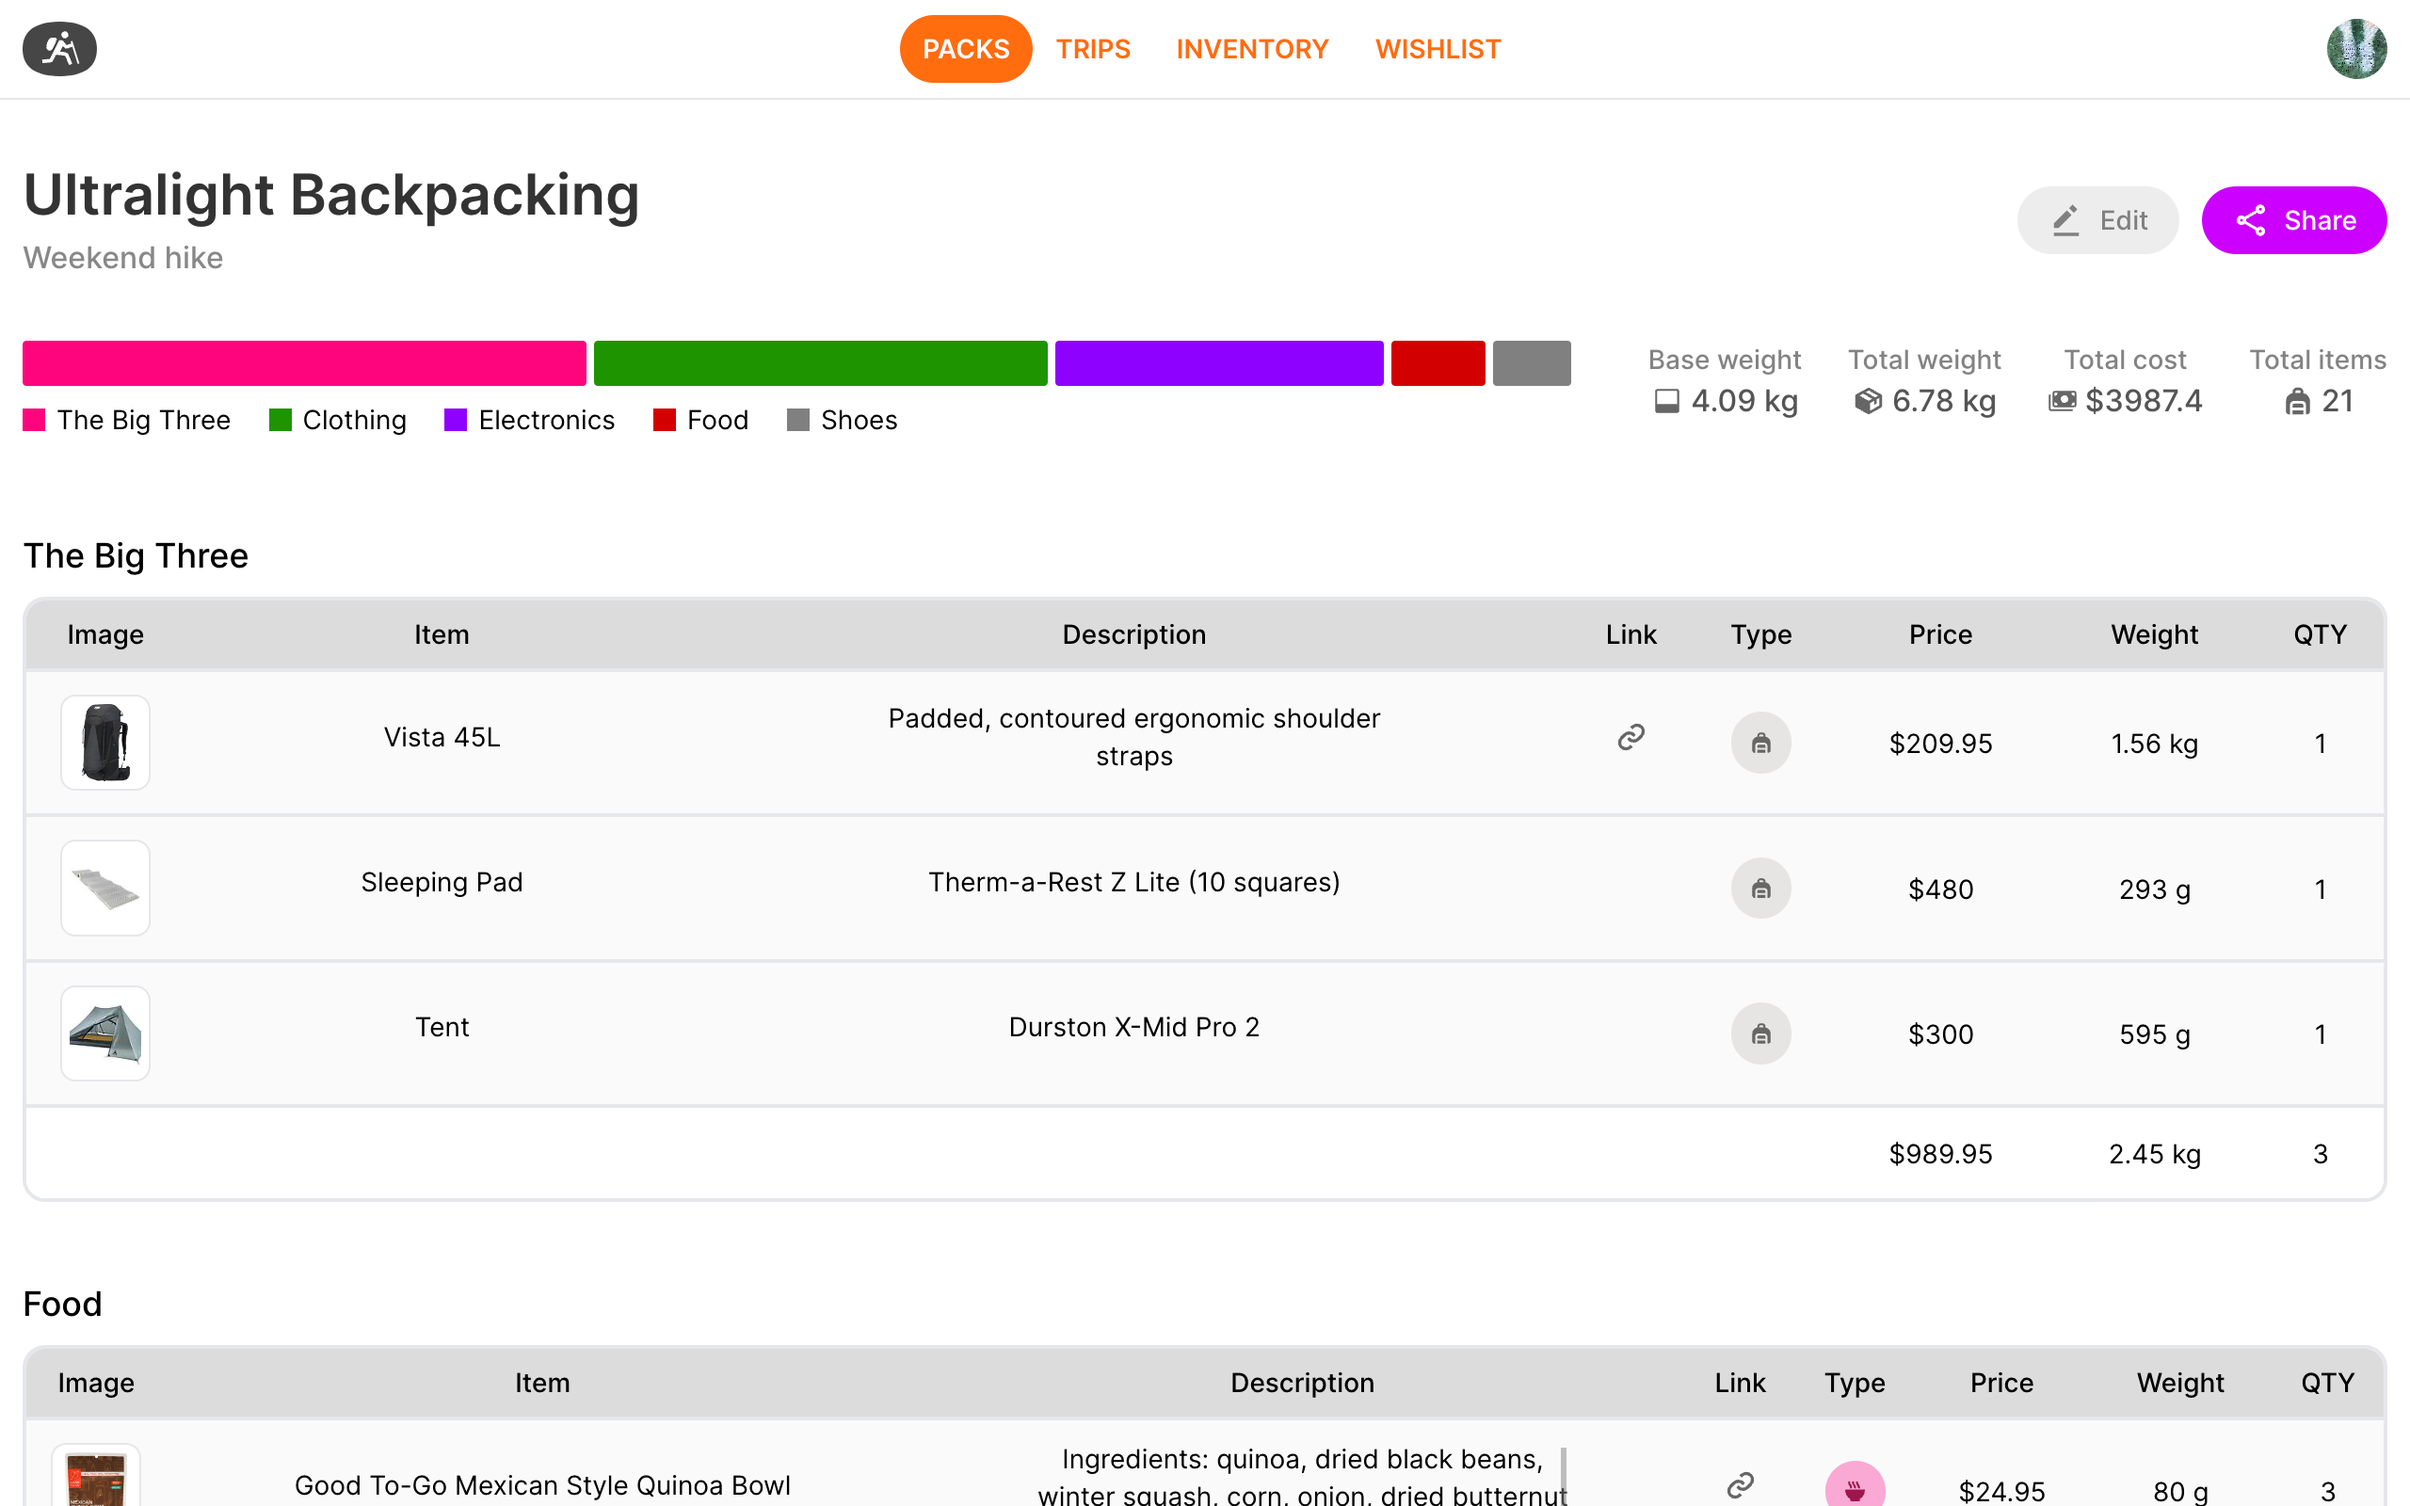
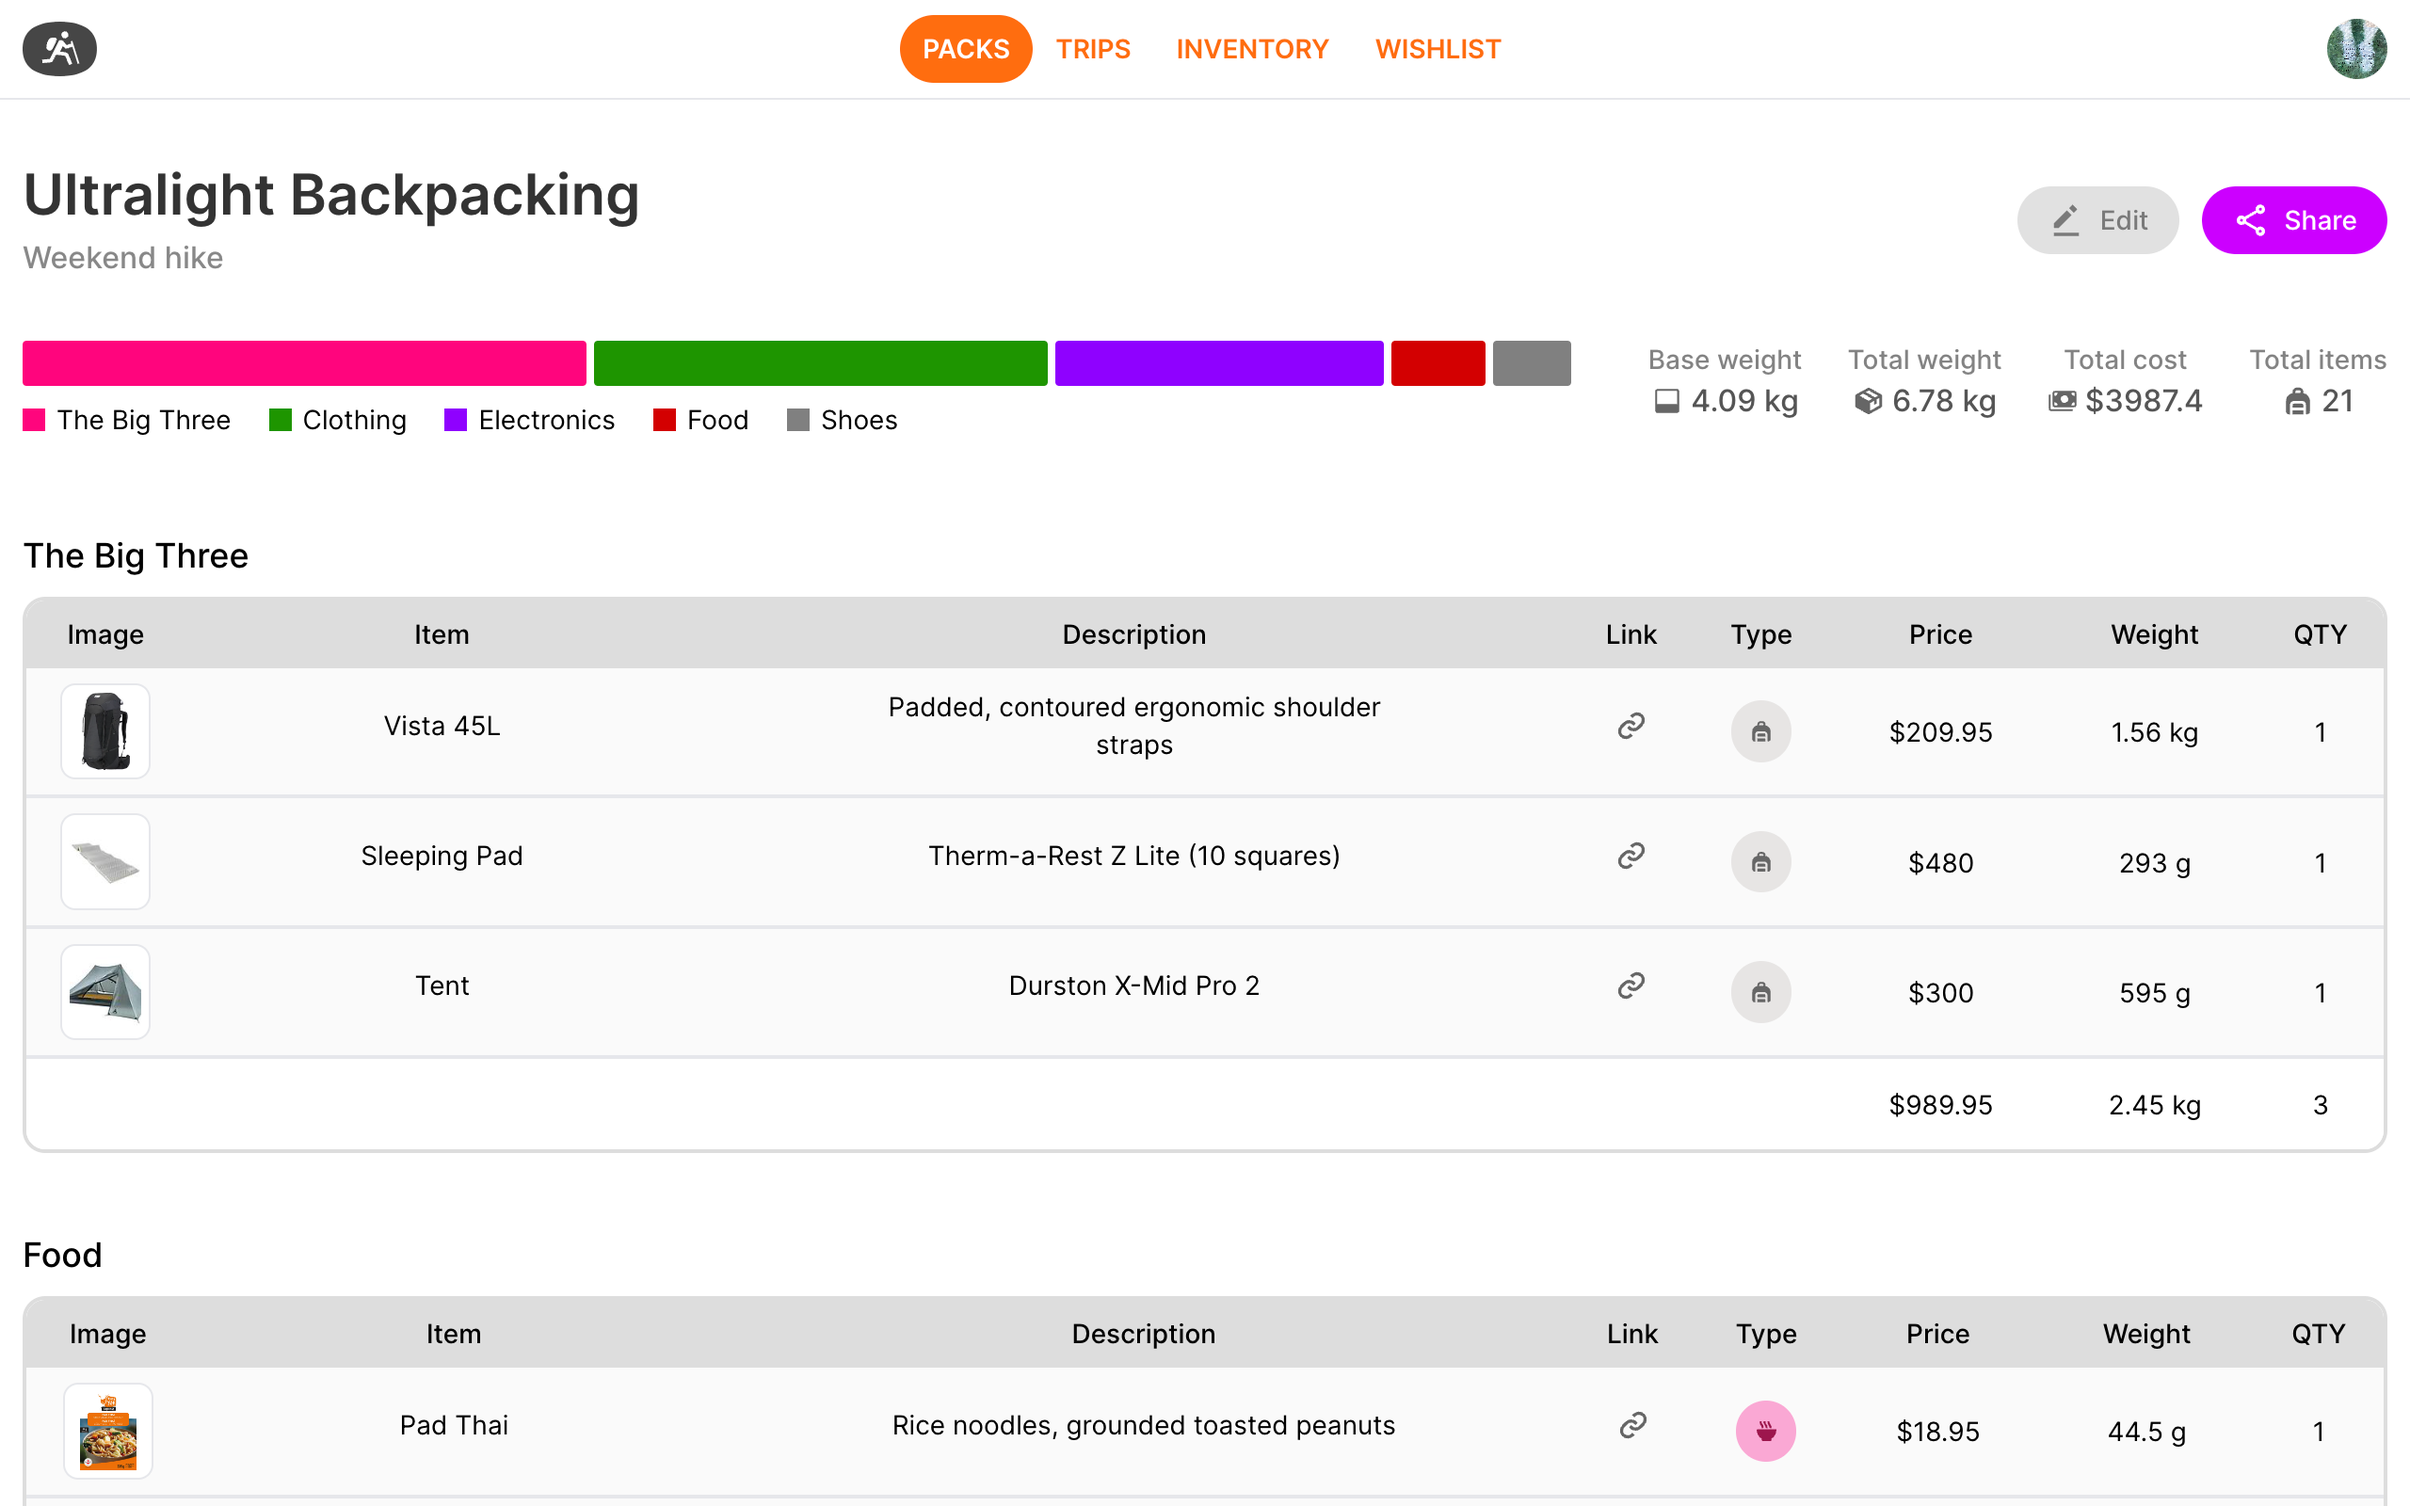
Update table header and border colour

diff --git a/src/components/dataDisplay/tableRow/TableRow.tsx b/src/components/dataDisplay/tableRow/TableRow.tsx
@@ -46,7 +46,7 @@ function TableRow(props: Props) {
   return (
     <>
       <tr
-        className={`bg-table-row border-y-2 align-middle dark:bg-neutral-800 dark:border-neutral-700`}
+        className={`bg-table-row border-b-2 align-middle dark:bg-neutral-800 dark:border-neutral-700`}
         ref={setNodeRef}
         style={style}
       >
@@ -69,10 +69,10 @@ function TableRow(props: Props) {
             </button>
           </td>
         )}
-        <td className="py-1.5 sm:py-2.5 lg:py-3">
+        <td className="py-1.5 sm:py-2">
           {image && (
             <Image
-              className="border p-1 rounded-lg mx-auto max-w-[3rem] w-[3rem] h-[3.2rem] object-contain dark:border-neutral-400 bg-white"
+              className="border p-1 rounded-lg mx-auto w-[3rem] h-[3.2rem] object-contain dark:border-neutral-400 bg-white"
               src={image}
               alt="Item image"
               height={40}

diff --git a/src/components/dataDisplay/table/Table.tsx b/src/components/dataDisplay/table/Table.tsx
@@ -202,7 +202,7 @@ function Table(props: Props) {
               </button>
             )}
 
-            <h3 className="font-medium text-lg dark:text-neutral-200">
+            <h3 className="font-medium text-base sm:text-lg dark:text-neutral-200">
               {group.title}
             </h3>
           </span>
@@ -234,7 +234,7 @@ function Table(props: Props) {
             </div>
           )}
         </div>
-        <div className="relative overflow-auto rounded-xl border-2 bg-white dark:border-neutral-600">
+        <div className="relative overflow-auto rounded-xl border-2 border-table-rowBorder bg-white dark:border-neutral-600">
           <DndContext
             sensors={sensors}
             collisionDetection={closestCenter}

diff --git a/tailwind.config.js b/tailwind.config.js
@@ -1,5 +1,5 @@
 /** @type {import('tailwindcss').Config} */
-module.exports = {  
+module.exports = {
   plugins: [require("tailwindcss-animated")],
   content: [
     "./src/pages/**/*.{js,ts,jsx,tsx,mdx}",
@@ -27,7 +27,7 @@ module.exports = {
           hover: "#E6E6E6",
         },
         table: {
-          head: "#DCDCDC",
+          head: "#DDDDDD",
           row: "#FAFAFA",
           headBorder: "#B0B0B0",
           rowBorder: "#DDDDDD",
